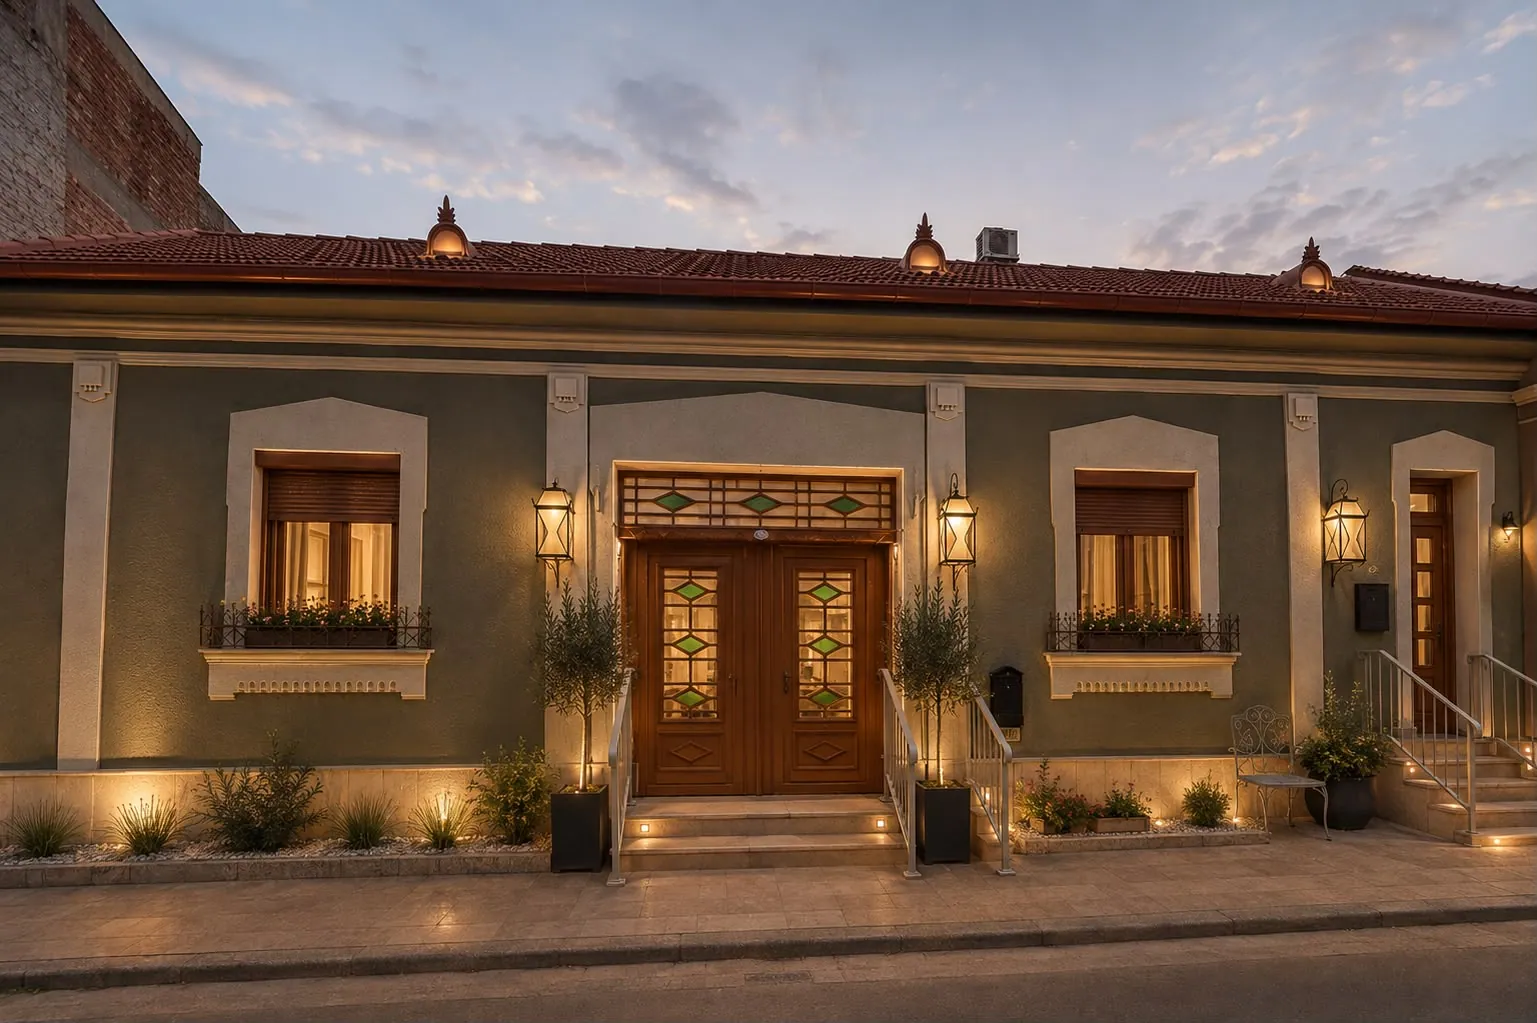
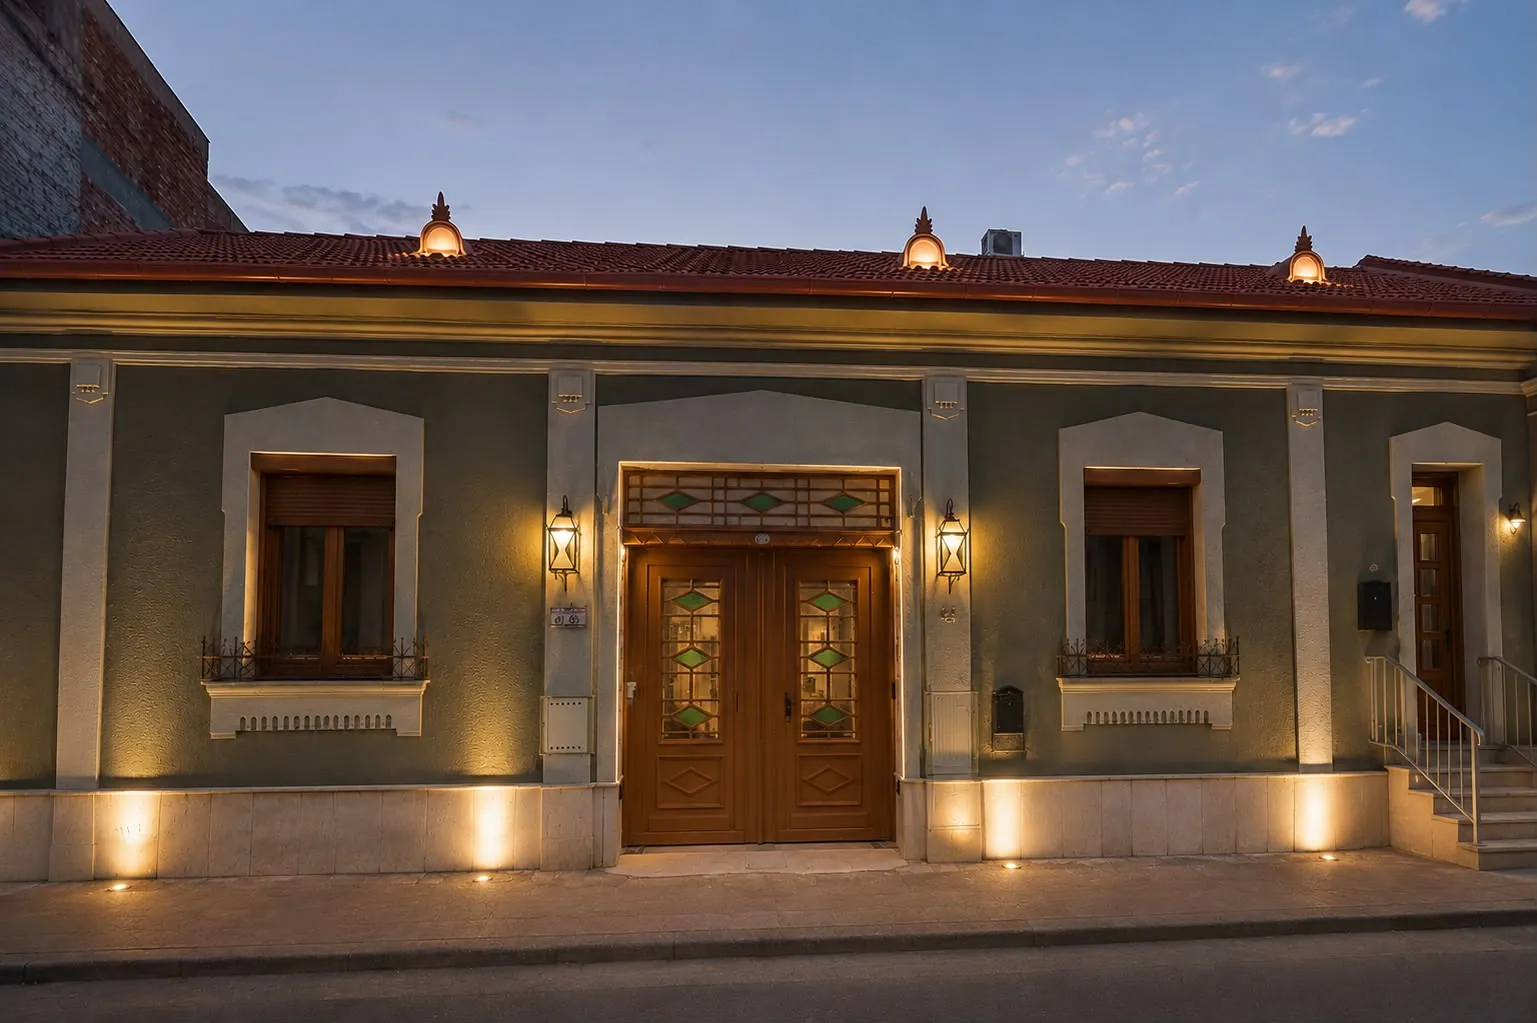
Update the facade photo and fix both forms on phones
The hero now shows the new poze3/fatada. The filename is unchanged, so
its id and every reference to it stay put; only the derivatives were
rebuilt. The dominant colour moves from #483828 to #98a8c8, which is
the dusk frame giving way to a daytime one, so the comment calling it
a dusk shot goes too.

The qualifying form was broken on a phone. Its question was a <legend>,
and since a legend cannot be a flex item, sitting it beside its answers
needed float-left. At 375px the floated question was wider than the row,
so the answers wrapped around it and ran off the right edge: they were
laid out at x=331 inside a 343px dialog. It is now a div with
role="radiogroup" and aria-labelledby, which lays out with ordinary
flexbox at every width and keeps the grouping for screen readers.

Also for phones:
  - inputs and the budget select go to 16px, below which iOS Safari
    zooms the page as soon as a field takes focus
  - answers get vertical padding, since a 21px row is a poor tap target
  - card and modal padding drops to 24px, which gives the inputs
    another 16px of width

diff --git a/src/components/RequestForm.jsx b/src/components/RequestForm.jsx
@@ -9,19 +9,28 @@ const EMPTY = { acquisition: '', agency: '', buyerType: '', budget: '' }
  * A labelled group of radio buttons. Rendered as real inputs with a visible
  * ring rather than pills, matching the approved design, and still operable by
  * keyboard because the input keeps focus.
+ *
+ * A div with role="radiogroup" rather than fieldset/legend on purpose. A legend
+ * cannot be laid out as a flex item, so putting the question beside its answers
+ * needed `float-left`, and on a phone the floated question was wider than the
+ * row: the answers wrapped around it and off the right edge of the screen.
  */
 function RadioRow({ label, name, options, value, onChange, invalid, stacked }) {
+  const labelId = `${name}-label`
+
   return (
-    <fieldset
+    <div
+      role="radiogroup"
+      aria-labelledby={labelId}
       className={
         stacked
           ? ''
           : 'flex flex-col gap-3 sm:flex-row sm:items-start sm:justify-between sm:gap-8'
       }
     >
-      <legend className="float-left text-[14px] leading-snug text-ink/75 sm:max-w-[16rem]">
+      <p id={labelId} className="text-[14px] leading-snug text-ink/75 sm:max-w-[16rem]">
         {label}
-      </legend>
+      </p>
 
       <div className={`flex flex-wrap items-center gap-x-7 gap-y-2 ${stacked ? 'mt-3' : 'sm:pt-0.5'}`}>
         {options.map((option) => {
@@ -29,7 +38,7 @@ function RadioRow({ label, name, options, value, onChange, invalid, stacked }) {
           return (
             <label
               key={option.id}
-              className="flex cursor-pointer items-center gap-2.5 text-[14px] text-ink/70"
+              className="flex cursor-pointer items-center gap-2.5 py-2 text-[14px] text-ink/70"
             >
               <span
                 className={`flex h-[18px] w-[18px] shrink-0 items-center justify-center rounded-full transition-colors duration-200 ${
@@ -57,7 +66,7 @@ function RadioRow({ label, name, options, value, onChange, invalid, stacked }) {
       </div>
 
       {invalid && <p className="mt-2 w-full text-[13px] text-[#a6402f]">{invalid}</p>}
-    </fieldset>
+    </div>
   )
 }
 
@@ -165,7 +174,7 @@ export default function RequestForm({ onDone, compact = false }) {
           id="budget"
           value={values.budget}
           onChange={(event) => set('budget')(event.target.value)}
-          className={`appearance-none rounded-xl bg-stone-warm px-4 py-3 text-[14px] text-ink/80 outline-none transition-colors duration-200 focus:bg-forest-50 ${
+          className={`appearance-none rounded-xl bg-stone-warm px-4 py-3 text-[16px] text-ink/80 sm:text-[14px] outline-none transition-colors duration-200 focus:bg-forest-50 ${
             compact ? 'mt-3 w-full' : 'w-full sm:w-[17rem]'
           }`}
         >

diff --git a/src/sections/index.jsx b/src/sections/index.jsx
@@ -959,7 +959,7 @@ export function Contact({ withHeading = true }) {
 
       <div className="grid items-start gap-6 lg:grid-cols-12 lg:gap-8">
         <Reveal className="lg:col-span-5">
-          <div className="rounded-[2rem] bg-white p-8 sm:p-10">
+          <div className="rounded-[2rem] bg-white p-6 sm:p-10">
             <h3 className="font-display text-2xl">{t.contact.detailsTitle}</h3>
 
             <dl className="mt-8 flex flex-col gap-7">
@@ -999,7 +999,7 @@ export function Contact({ withHeading = true }) {
         </Reveal>
 
         <Reveal delay={140} className="lg:col-span-7">
-          <div className="rounded-[2rem] bg-white p-8 sm:p-10">
+          <div className="rounded-[2rem] bg-white p-6 sm:p-10">
             <h3 className="font-display text-2xl">{t.contact.formTitle}</h3>
             <div className="mt-8">
               <ContactForm />

diff --git a/src/components/ContactForm.jsx b/src/components/ContactForm.jsx
@@ -15,7 +15,7 @@ const EMAIL = /^[^\s@]+@[^\s@]+\.[^\s@]+$/
  */
 function Field({ id, label, value, onChange, error, type = 'text', autoComplete }) {
   const surface = error ? 'bg-[#f8ece8]' : 'bg-stone-warm focus:bg-forest-50'
-  const shared = `w-full rounded-xl px-4 py-3.5 text-[15px] leading-relaxed text-ink outline-none transition-colors duration-200 ${surface}`
+  const shared = `w-full rounded-xl px-4 py-3.5 text-[16px] leading-relaxed text-ink outline-none sm:text-[15px] transition-colors duration-200 ${surface}`
   const describedBy = error ? `${id}-error` : undefined
 
   return (

diff --git a/src/data/units.js b/src/data/units.js
@@ -123,7 +123,7 @@ export const worksPhotos = ['p1-103056', 'p3-8383fb', 'p4-9a3ea4']
   .filter(Boolean)
 
 /** Hand-picked frames so the key sections never depend on folder ordering. */
-/** The facade at dusk, supplied separately from the daytime shoot. */
+/** The facade, supplied separately from the main shoot. */
 export const heroPhoto = exactly(uses, 'fatada-146e0a') ?? byId(facade, 'las-7844-b43f0d')
 export const architecturePhoto = byId(courtyard, 'las-7417-8e26ab')
 export const entrancePhoto = byId(facade, 'las-7857-d449fd')

diff --git a/src/components/RequestModal.jsx b/src/components/RequestModal.jsx
@@ -67,7 +67,7 @@ function RequestModal({ open, onClose }) {
         role="dialog"
         aria-modal="true"
         aria-label={t.form.title}
-        className="relative w-full max-w-2xl rounded-[2rem] bg-white p-7 sm:p-10"
+        className="relative w-full max-w-2xl rounded-[2rem] bg-white p-6 sm:p-10"
       >
         <button
           ref={closeRef}
